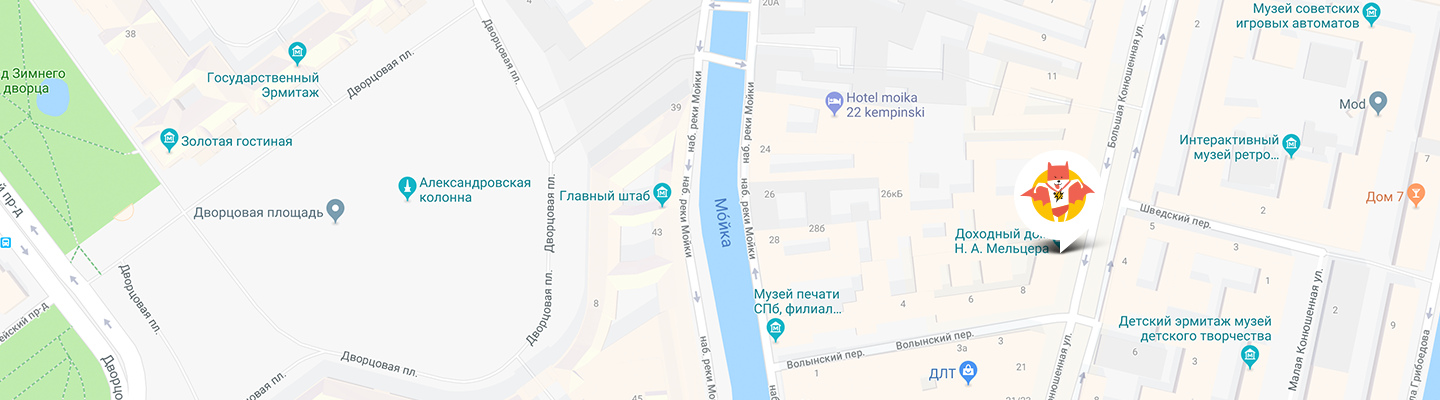
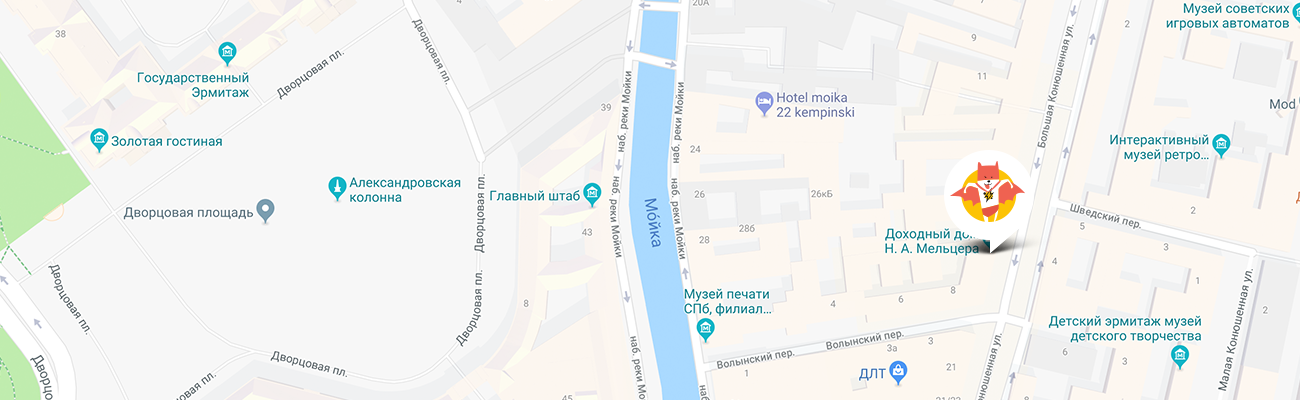
Сделаны тянущиеся фоны в карте и футуре

diff --git a/source/index.html b/source/index.html
@@ -94,12 +94,14 @@
             </div>
           </div>
           <div class="comparison">
-            <figure class="comparison__image">
-              <div class="comparison__divisor"></div>
-            </figure>
-            <button class="comparison__button" type="button">Было</button>
-            <input class="comparison__slider" type="range" name="slider" min="0" max="100" value="50" oninput="moveDivisor()">
-            <button class="comparison__button" type="button">Стало</button>
+            <div class="comparison__wrapper">
+              <figure class="comparison__image">
+                <div class="comparison__divisor"></div>
+              </figure>
+              <button class="comparison__button" type="button">Было</button>
+              <input class="comparison__slider" type="range" name="slider" min="0" max="100" value="50" oninput="moveDivisor()">
+              <button class="comparison__button" type="button">Стало</button>
+            </div>
           </div>
         </div>
       </section>
@@ -113,7 +115,7 @@
           <div class="location__map">
             <img class="location__map-image location__map-image--mobile" src="../img/bg-map-mobile@1x.png" width="320" height="362" alt="Карта">
             <img class="location__map-image location__map-image--tablet" src="../img/bg-map-tablet.png" width="768" height="400" alt="Карта">
-            <img class="location__map-image location__map-image--desktop" src="../img/bg-map-desktop.png" width="1440" height="400" alt="Карта">
+            <img class="location__map-image location__map-image--desktop" src="../img/bg-map-desktop.png" width="1300" height="400" alt="Карта">
           </div>
         </div>
       </section>

diff --git a/source/sass/blocks/location.scss b/source/sass/blocks/location.scss
@@ -1,7 +1,3 @@
-.location__wrapper--background {
-  background-color: $main-background;
-}
-
 .location__wrapper {
   margin: 0 auto;
 
@@ -9,10 +5,17 @@
 }
 
 .location__map {
+  margin-left: calc((100vw - 320px) / -2);
+
+  width: 100vw;
+
   background-color: $main-background;
 }
 
 .location__map-image {
+  margin: 0 auto;
+
+  display: block;
   &--tablet {
     display: none;
   }
@@ -25,6 +28,10 @@
 @media (min-width: $tablet-width) {
   .location__wrapper {
     width: 768px;
+  }
+
+  .location__map {
+    margin-left: calc((100vw - 768px) / -2);
   }
 
   .location__map-image {
@@ -43,6 +50,10 @@
     position: relative;
 
     width: 1300px;
+  }
+
+  .location__map {
+    margin-left: calc((100vw - 1300px) / -2);
   }
 
   .location__map-image {

diff --git a/source/sass/blocks/example.scss b/source/sass/blocks/example.scss
@@ -1,18 +1,27 @@
+.example {
+  background-color: $main-background;
+}
+
 .example__wrapper {
   @include align-mobile;
 
   padding-top: 18px;
-
-  background-color: #ffffff;
 }
 
 .example__title {
   @include main-title;
+  margin: 0 auto;
   margin-top: 0;
   margin-bottom: 23px;
+
+  width: 280px;
 }
 
 @media (min-width: $tablet-width) {
+  .example {
+    background-color: #ffffff;
+  }
+
   .example__wrapper {
     padding: 0 30px;
 
@@ -21,6 +30,8 @@
 
   .example__title {
     margin-bottom: 75px;
+
+    width: 708px;
 
     font-size: 60px;
     line-height: 60px;
@@ -38,6 +49,6 @@
   }
 
   .example__title {
-    width: 100%;
+    width: 1220px;
   }
 }

diff --git a/source/sass/blocks/promo.scss b/source/sass/blocks/promo.scss
@@ -12,7 +12,6 @@
 
 .promo__background {
   position: relative;
-
   margin-bottom: 135px;
   padding-top: 30px;
   padding-bottom: 1px;
@@ -136,6 +135,7 @@
 
       background-color: $secondary-bacground;
       background-image: url("../img/index-background-desktop.jpg");
+
       content: "";
     }
   }

diff --git a/source/sass/blocks/comparison.scss b/source/sass/blocks/comparison.scss
@@ -6,8 +6,16 @@
   .comparison {
     background-color: $main-background;
 
+    width: 100vw;
+    margin-left: calc((100vw - 708px) / -2);
     min-height: 462px;
-  }
+    }
+
+    .comparison__wrapper {
+      margin: 0 auto;
+
+      width: 708px;
+    }
 }
 
 @media (min-width: $desktop-width) {

diff --git a/source/sass/blocks/footer.scss b/source/sass/blocks/footer.scss
@@ -1,7 +1,9 @@
+.footer {
+  background-color: $main-background;
+}
+
 .footer__wrapper {
   @include align-mobile;
-
-  background-color: $main-background;
 }
 
 .footer__link {
